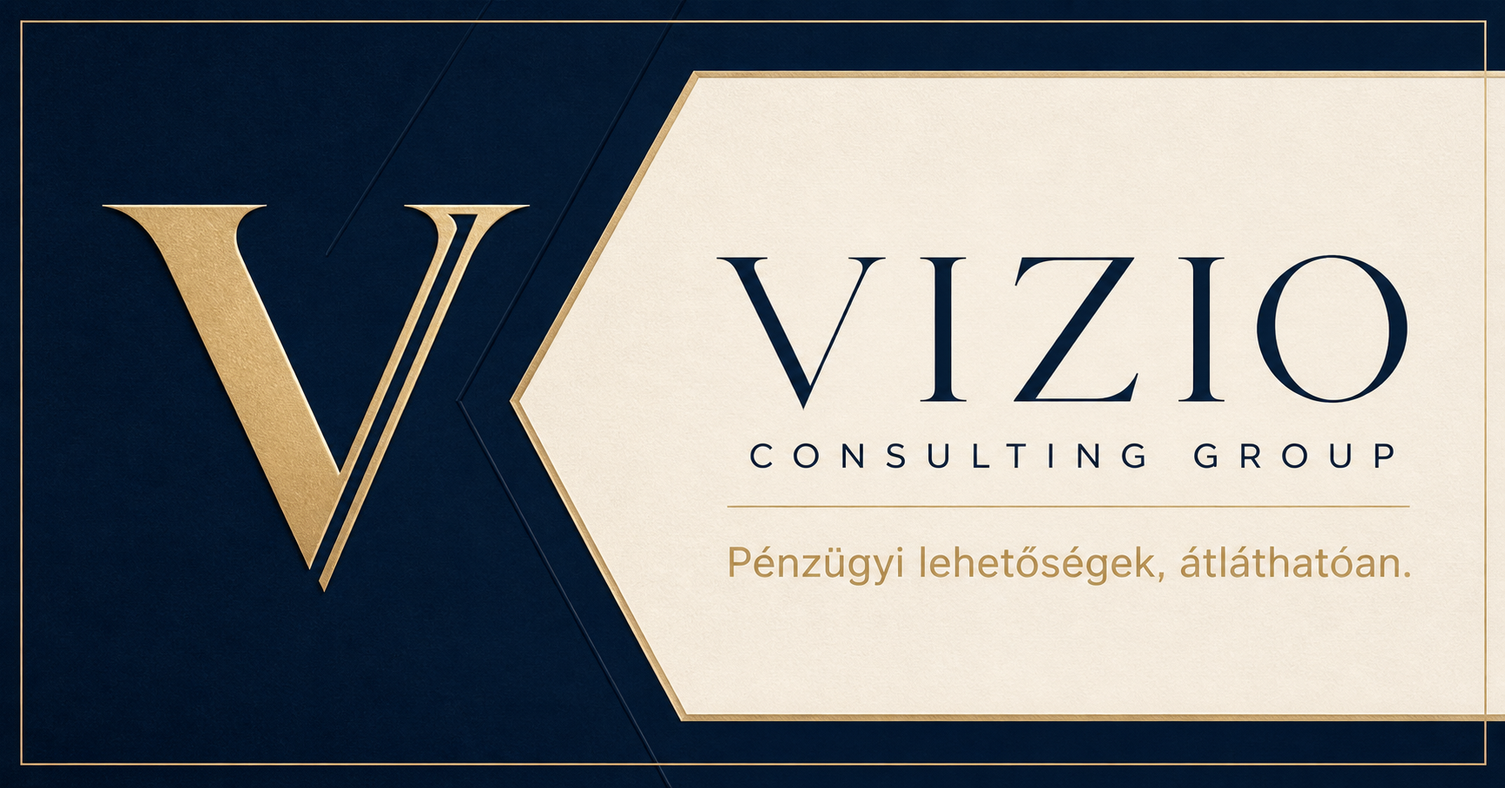
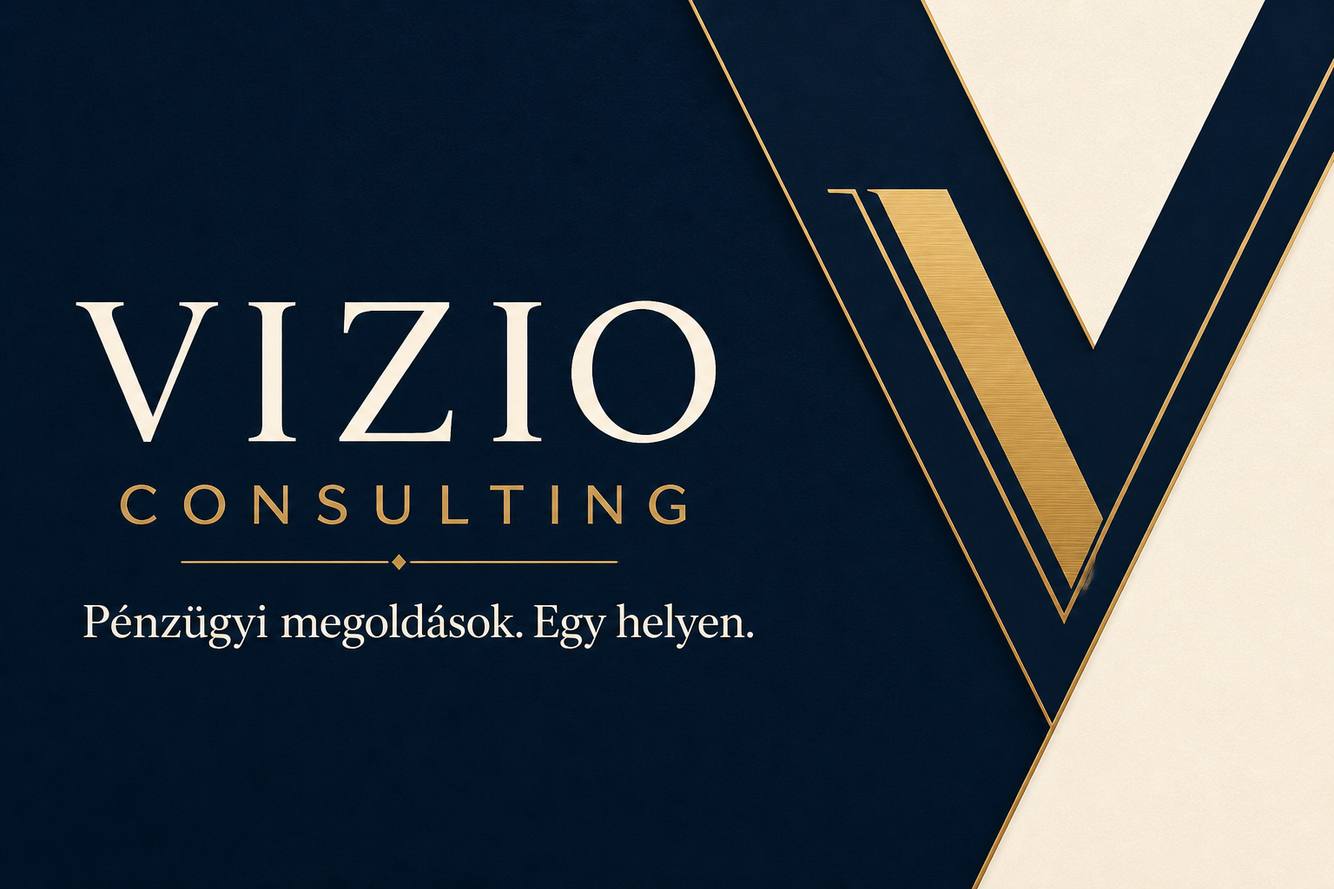
Refresh VIZIO brand and compliance content

diff --git a/src/data/landingPages.ts b/src/data/landingPages.ts
@@ -6,11 +6,11 @@ export type LandingPage = {
 };
 
 export const landingPages: LandingPage[] = [
-  { slug:'bankszamla', eyebrow:'Bankszámla', title:'Lehet, hogy többet fizetsz a bankolásért, mint szükséges.', description:'Bankszámlacsomagok áttekintése a mindennapi bankolási szokásaidhoz és élethelyzetedhez igazítva.', intro:'A megfelelő bankszámlacsomag kiválasztásával a mindennapi bankolás egyszerűbbé és kedvezőbbé válhat.', cta:'Megnézem a lehetőségeimet', secondaryCta:'Kérek visszahívást', event:'bankszamla_cta', benefits:[{title:'Alacsonyabb banki költségek',text:'A számlavezetési és kapcsolódó díjak átnézése.'},{title:'Élethelyzethez igazított csomag',text:'Más számla lehet megfelelő egy diáknak, alkalmazottnak vagy vállalkozónak.'},{title:'Modern szolgáltatások',text:'Digitális bankolás és kényelmesebb ügyintézés.'}], disclaimer:'A bankszámlacsomagok elérhetősége és díjai szolgáltatónként változhatnak; az aktuális feltételeket minden esetben külön szükséges ellenőrizni.' },
-  { slug:'megtakaritas', eyebrow:'Megtakarítás', title:'A nagyobb pénzügyi célok ritkán egyetlen nagy döntéssel kezdődnek.', description:'Rendszeres megtakarítási lehetőségek saját otthonhoz, családi célokhoz, tartalékhoz és nyugdíjhoz.', intro:'Rendszeres megtakarítással lépésről lépésre építhető fel a későbbi célokhoz szükséges pénzügyi háttér.', cta:'Megtakarítási lehetőségek', event:'megtakaritas_cta', benefits:[{title:'Tervezhető lépések',text:'A rendszeresség segíthet kiszámíthatóbban haladni a választott cél felé.'},{title:'Személyes célok',text:'Az időtáv és a megtakarítás módja a saját élethelyzetedhez igazítható.'},{title:'Pénzügyi tartalék',text:'A tudatosan épített háttér nagyobb mozgásteret adhat a jövőben.'}], categories:['Saját otthon','Gyermek jövője','Autó','Vállalkozás','Pénzügyi tartalék','Nyugdíj','Vagyonépítés','Szabad cél'], disclaimer:'A megtakarítási megoldások értéke és eredménye a választott konstrukció feltételeitől, időtávjától és kockázataitól függ.' },
-  { slug:'hitelek', eyebrow:'Hitelek', title:'Egy hitelnél nem csak a havi törlesztőrészlet számít.', description:'Lakáshitel, személyi kölcsön, hitelkiváltás és előminősítés átlátható áttekintése.', intro:'A teljes költség, a futamidő és a feltételek együtt mutatják meg, hogy egy finanszírozási lehetőség mennyire illeszkedhet a céljaidhoz.', cta:'Megnézem a hitellehetőségeket', event:'hitel_cta', benefits:[{title:'Több lehetőség',text:'Különböző finanszírozási konstrukciók áttekintése.'},{title:'Hitelkiváltás',text:'Meglévő finanszírozás optimalizálási lehetőségeinek vizsgálata.'},{title:'Előminősítés',text:'Lakáskeresés előtt is érdemes tisztában lenni a finanszírozási lehetőségekkel.'}], categories:['Lakáshitel','Személyi kölcsön','Hitelkiváltás','Támogatott konstrukciók','Hitel-előminősítés'], disclaimer:'A hitellehetőségek és feltételek minden esetben egyedi hitelbírálattól és a finanszírozó aktuális szabályaitól függnek.', related:[{label:'Okoshitel',href:'/okoshitel'},{label:'Otthonteremtés',href:'/otthonteremtes'}] },
-  { slug:'okoshitel', eyebrow:'Okoshitel', title:'Ne csak fizesd a hiteled. Legyen terved arra is, hogy hamarabb véget érjen.', description:'Személyre szabott Okoshitel számítás a futamidő és a teljes kamatteher tudatosabb tervezéséhez.', intro:'Egy tudatos pénzügyi stratégia megfelelő körülmények között jelentősen csökkentheti a hitel tényleges futamidejét és teljes kamatterhét.', cta:'Kérek Okoshitel számítást', secondaryCta:'Megnézem, nálam mit jelenthet', event:'okoshitel_cta', benefits:[{title:'Rövidebb futamidő',text:'Megfelelő konstrukció mellett akár évekkel korábban lezárható lehet a hitel.'},{title:'Alacsonyabb teljes kamatteher',text:'A rövidebb tényleges futamidő jelentős kamatmegtakarítást eredményezhet.'},{title:'Tervezett előtörlesztés',text:'A hitel hosszú távú optimalizálásában az előtörlesztés is szerepet kaphat.'},{title:'Tudatosabb pénzügyi stratégia',text:'A havi hiteltörlesztés mellett hosszabb távú pénzügyi célok is tervezhetők.'}], disclaimer:'Az eredmények minden esetben az egyedi hitelszerződés, az előtörlesztési feltételek, a választott pénzügyi megoldások és egyéb körülmények függvényei. A weboldalon szereplő információk nem jelentenek garantált megtakarítást.', related:[{label:'Hitelek',href:'/hitelek'}] },
-  { slug:'otthonteremtes', eyebrow:'Otthonteremtés', title:'Saját otthonhoz több út vezethet.', description:'Lakáshitel és aktuális otthonteremtési lehetőségek érthető áttekintése.', intro:'Segítünk átláthatóvá tenni, milyen finanszírozási és támogatási lehetőségek jöhetnek szóba az élethelyzetedben.', cta:'Megnézem a lehetőségeimet', event:'otthonteremtes_cta', benefits:[{title:'Átlátható lehetőségek',text:'A releváns finanszírozási irányok egy helyen tekinthetők át.'},{title:'Élethelyzethez igazítva',text:'Az első lakástól a családi otthonig más és más szempontok lehetnek fontosak.'},{title:'Aktuális ellenőrzés',text:'A támogatások feltételeit mindig az adott időpontban szükséges ellenőrizni.'}], categories:['Lakáshitel','Első lakás','Támogatott finanszírozás','CSOK Plusz','Babaváró','Aktuális lehetőségek'], disclaimer:'Az aktuális feltételeket minden esetben külön szükséges ellenőrizni. A jogosultság és az elérhető finanszírozás egyedi vizsgálattól függ.', related:[{label:'Hitelek',href:'/hitelek'}] },
+  { slug:'bankszamla', eyebrow:'Bankszámla', title:'Lehet, hogy többet fizetsz a bankolásért, mint szükséges.', description:'Bankszámlacsomagok áttekintése a mindennapi bankolási szokásaidhoz és élethelyzetedhez igazítva.', intro:'A megfelelő bankszámlacsomag kiválasztásával a mindennapi bankolás egyszerűbbé és kedvezőbbé válhat.', cta:'Megnézem a lehetőségeimet', secondaryCta:'Kérek visszahívást', event:'bankszamla_cta', benefits:[{title:'Költségek',text:'Bankszámlához kapcsolódó költségek áttekintése.'},{title:'Élethelyzet',text:'Különböző élethelyzetekhez eltérő számlacsomagok lehetnek megfelelőek.'},{title:'Digitális szolgáltatások',text:'Modern mobilbanki és online lehetőségek.'}], disclaimer:'A bankszámlacsomagok elérhetősége és díjai szolgáltatónként változhatnak; az aktuális feltételeket minden esetben külön szükséges ellenőrizni.' },
+  { slug:'megtakaritas', eyebrow:'Megtakarítás', title:'A nagyobb pénzügyi célok ritkán egyetlen nagy döntéssel kezdődnek.', description:'Rendszeres megtakarítási lehetőségek saját otthonhoz, családi célokhoz, tartalékhoz és nyugdíjhoz.', intro:'Rendszeres megtakarítással fokozatosan építhető fel a jövőbeli célokhoz szükséges pénzügyi háttér.', cta:'Megtakarítási lehetőségek', event:'megtakaritas_cta', benefits:[{title:'Tervezhető lépések',text:'A rendszeresség segíthet kiszámíthatóbban haladni a választott cél felé.'},{title:'Személyes célok',text:'Az időtáv és a megtakarítás módja a saját élethelyzetedhez igazítható.'},{title:'Pénzügyi tartalék',text:'A tudatosan épített háttér nagyobb mozgásteret adhat a jövőben.'}], categories:['Saját otthon','Gyermek jövője','Autó','Vállalkozás','Pénzügyi tartalék','Nyugdíj','Vagyonépítés','Szabad cél'], disclaimer:'A megtakarítási megoldások értéke és eredménye a választott konstrukció feltételeitől, időtávjától és kockázataitól függ.' },
+  { slug:'hitelek', eyebrow:'Hitelek', title:'Egy hitelnél nem csak a havi törlesztőrészlet számít.', description:'Lakáshitel, személyi kölcsön, hitelkiváltás és előminősítés átlátható áttekintése.', intro:'A teljes költség, a futamidő és a feltételek együtt mutatják meg, hogy egy finanszírozási lehetőség mennyire illeszkedhet a céljaidhoz.', cta:'Megnézem a hitellehetőségeket', event:'hitel_cta', benefits:[{title:'Több lehetőség',text:'Releváns finanszírozási konstrukciók áttekintése.'},{title:'Hitelkiváltás',text:'Meglévő finanszírozás optimalizálási lehetőségeinek vizsgálata.'},{title:'Előminősítés',text:'Lakáskeresés előtt is érdemes tisztában lenni a finanszírozási lehetőségekkel.'}], categories:['Lakáshitel','Személyi kölcsön','Hitelkiváltás','Támogatott konstrukciók','Hitel-előminősítés'], disclaimer:'A hitellehetőségek és feltételek minden esetben egyedi hitelbírálattól és a finanszírozó aktuális szabályaitól függnek.', related:[{label:'Okoshitel',href:'/okoshitel'},{label:'Otthonteremtés',href:'/otthonteremtes'}] },
+  { slug:'okoshitel', eyebrow:'Okoshitel', title:'Ne csak fizesd a hiteled. Legyen terved arra is, hogy hamarabb véget érjen.', description:'Személyre szabott Okoshitel számítás a futamidő és a teljes kamatteher tudatosabb tervezéséhez.', intro:'Egy tudatosan felépített pénzügyi stratégia megfelelő körülmények között csökkentheti a hitel tényleges futamidejét és teljes kamatterhét.', cta:'Kérek Okoshitel számítást', secondaryCta:'Megnézem, nálam mit jelenthet', event:'okoshitel_cta', benefits:[{title:'Rövidebb futamidő',text:'Megfelelő feltételek mellett a hitel a tervezettnél korábban lezárható lehet.'},{title:'Alacsonyabb teljes kamatteher',text:'A rövidebb tényleges futamidő kamatmegtakarítást eredményezhet.'},{title:'Előtörlesztési lehetőség',text:'A hitel hosszú távú optimalizálásában az előtörlesztés is szerepet kaphat.'},{title:'Tudatos pénzügyi stratégia',text:'A hitel kezelése hosszabb távú pénzügyi tervezésbe illeszthető.'}], disclaimer:'A konkrét eredmény minden esetben az egyedi hitelszerződés, az előtörlesztési feltételek, a választott pénzügyi megoldások és egyéb körülmények függvénye. A weboldalon szereplő információk nem jelentenek garantált megtakarítást.', related:[{label:'Hitelek',href:'/hitelek'}] },
+  { slug:'otthonteremtes', eyebrow:'Otthonteremtés', title:'Saját otthonhoz több út vezethet.', description:'Lakáshitel és aktuális otthonteremtési lehetőségek érthető áttekintése.', intro:'Segítünk átláthatóvá tenni, milyen finanszírozási és támogatási lehetőségek jöhetnek szóba az élethelyzetedben.', cta:'Megnézem a lehetőségeimet', event:'otthonteremtes_cta', benefits:[{title:'Átlátható lehetőségek',text:'A releváns finanszírozási irányok egy helyen tekinthetők át.'},{title:'Élethelyzethez igazítva',text:'Az első lakástól a családi otthonig más és más szempontok lehetnek fontosak.'},{title:'Aktuális ellenőrzés',text:'A támogatások feltételeit mindig az adott időpontban szükséges ellenőrizni.'}], categories:['Lakáshitel','Első lakás','Támogatott finanszírozás','CSOK Plusz','Babaváró','Aktuális lehetőségek'], disclaimer:'Az aktuális feltételeket és jogosultsági szabályokat minden esetben külön szükséges ellenőrizni.', related:[{label:'Hitelek',href:'/hitelek'}] },
   { slug:'biztositas', eyebrow:'Biztosítás', title:'A jó biztosítás akkor számít igazán, amikor szükség van rá.', description:'Biztosítási lehetőségek otthonra, autóra, utazáshoz, egészséghez és váratlan élethelyzetekre.', intro:'A megfelelő védelem kiválasztása abban segíthet, hogy egy váratlan helyzet pénzügyileg is kezelhetőbb legyen.', cta:'Biztosítási lehetőségek', event:'biztositas_cta', benefits:[{title:'Ami fontos, védhető',text:'Otthon, autó, utazás vagy személyes biztonság – eltérő célokhoz eltérő védelem illeszkedhet.'},{title:'Átlátható fedezetek',text:'Nem csak a díj, hanem a szolgáltatás tartalma és kizárásai is fontosak.'},{title:'Élethelyzethez igazítva',text:'A biztosítási igények az élethelyzet változásával együtt módosulhatnak.'}], categories:['Lakásbiztosítás','KGFB','Casco','Utasbiztosítás','Életbiztosítás','Balesetbiztosítás','Egészségbiztosítás'], disclaimer:'A biztosítási fedezetet, kizárásokat, limiteket és díjakat mindig az adott biztosító aktuális feltételei határozzák meg.' },
   { slug:'nyugdij', eyebrow:'Nyugdíj és hosszú táv', title:'A hosszú távú pénzügyi biztonságot érdemes időben elkezdeni építeni.', description:'Nyugdíjcélú és hosszú távú megtakarítási lehetőségek a pénzügyi tartalék tudatos felépítéséhez.', intro:'A hosszabb időtáv és a rendszeres megtakarítás együtt adhat alapot egy későbbi, stabilabb pénzügyi háttérhez.', cta:'Megnézem a hosszú távú lehetőségeket', event:'nyugdij_cta', benefits:[{title:'Rendszeres megtakarítás',text:'A kisebb, következetes lépések hosszabb idő alatt jelentős alapot építhetnek.'},{title:'Hosszú időtáv',text:'A korábbi kezdés nagyobb tervezési mozgásteret teremthet.'},{title:'Vagyonépítés',text:'A nyugdíjcél mellett általános pénzügyi tartalék is építhető.'},{title:'Nyugdíjcélú tartalék',text:'A későbbi élethelyzet pénzügyi biztonsága tudatosan előkészíthető.'}], disclaimer:'A hosszú távú megtakarítások eredménye a választott konstrukció feltételeitől, költségeitől, időtávjától és kockázataitól függ.' },
 ];

diff --git a/src/styles/global.css b/src/styles/global.css
@@ -21,3 +21,7 @@
 @media(max-width:760px){.landing-hero{min-height:100svh;grid-template-columns:1fr;padding:125px 22px 58px;gap:45px}.landing-hero h1{font-size:clamp(42px,12vw,58px)}.landing-symbol{width:76vw;justify-self:center}.landing-benefit-grid{grid-template-columns:1fr}.landing-benefit-grid article{min-height:210px}.landing-benefit-grid h3{margin-top:38px}.category-grid{grid-template-columns:1fr}.landing-contact{grid-template-columns:1fr;gap:40px}.optional-fields{grid-template-columns:1fr;gap:0}.landing-mobile-cta{display:grid;place-items:center;position:fixed;z-index:46;left:0;right:0;bottom:0;min-height:calc(58px + env(safe-area-inset-bottom));padding-bottom:env(safe-area-inset-bottom);background:linear-gradient(135deg,var(--light-gold),var(--gold));color:var(--dark);font-size:12px;font-weight:600;box-shadow:0 -8px 25px rgba(0,0,0,.16)}.cookie-panel{bottom:calc(70px + env(safe-area-inset-bottom))}.cookie-settings{flex-direction:column}.cookie-settings label{width:100%}}
 .form-honeypot{position:absolute!important;left:-9999px!important;width:1px!important;height:1px!important;overflow:hidden!important}
 .contact-form input:not(:user-invalid):not(:user-valid),.contact-form select:not(:user-invalid):not(:user-valid),.contact-form textarea:not(:user-invalid):not(:user-valid){border-color:#cbbca5}
+.skip-link{position:fixed;z-index:120;top:12px;left:12px;padding:12px 18px;background:var(--cream);color:var(--navy);border:2px solid var(--gold);transform:translateY(-160%);transition:transform .2s}.skip-link:focus{transform:none}a:focus-visible,button:focus-visible,input:focus-visible,select:focus-visible,textarea:focus-visible{outline:3px solid var(--light-gold);outline-offset:4px}section[id],main[id]{scroll-margin-top:90px}.service-grid{grid-template-columns:repeat(3,minmax(0,1fr))}.service-card-featured{background:linear-gradient(145deg,var(--dark),var(--navy));color:white;border-color:rgba(210,176,106,.42)}.service-card-featured h3,.service-card-featured>a{color:white}.service-card-featured>p,.service-card-featured li{color:#bdc7cf}.service-card-featured ul{border-color:rgba(210,176,106,.24)}.team-card-placeholder{opacity:.64}.team-card-placeholder .portrait-placeholder{background:linear-gradient(145deg,#27394a,var(--navy))}.team-legal{font-size:10px!important;color:#7b848b!important;border-top:1px solid #ded3c4;padding-top:12px;line-height:1.6}.team-links{display:flex;gap:14px;margin-top:12px}.team-links a{font-size:11px;color:var(--navy);border-bottom:1px solid var(--gold);padding-bottom:4px}.footer-disclosures{display:grid;grid-template-columns:1fr 1fr;gap:40px;margin-top:55px;padding:28px 0;border-top:1px solid rgba(210,176,106,.17);border-bottom:1px solid rgba(210,176,106,.17)}.footer-disclosures p{margin:0;color:#8f9da8;font-size:10px;line-height:1.8}.footer-disclosures strong{color:#d8dfe5}.footer-disclosures a{color:var(--light-gold);text-decoration:underline}.footer-disclosures img{max-width:150px;height:auto}.legal-data{margin:20px 0}.legal-data div{display:grid;grid-template-columns:minmax(190px,.45fr) 1fr;gap:25px;padding:13px 0;border-top:1px solid #ded3c4}.legal-data dt{color:var(--gold);font-size:10px;text-transform:uppercase;letter-spacing:.12em}.legal-data dd{margin:0;color:#4f5b64;line-height:1.6}.legal-page a{text-decoration:underline;text-decoration-color:rgba(184,138,59,.55);text-underline-offset:3px}
+@media(max-width:1050px){.service-grid{grid-template-columns:repeat(2,minmax(0,1fr))}}
+@media(max-width:720px){.service-grid{grid-template-columns:1fr}.footer-disclosures{grid-template-columns:1fr;gap:18px}.legal-data div{grid-template-columns:1fr;gap:5px}.legal-page{padding-left:22px;padding-right:22px}}
+@media(prefers-reduced-motion:reduce){html{scroll-behavior:auto}.reveal,.reveal.visible{opacity:1;transform:none;transition:none}.button,.service-card,.category-grid a,.mobile-menu,.menu-toggle span{transition:none!important}.button:hover,.service-card:hover,.category-grid a:hover{transform:none}}

diff --git a/src/data/services.ts b/src/data/services.ts
@@ -1,5 +1,9 @@
 export const services = [
-  { number:'01', slug:'bankszamla', event:'bankszamla_cta', title:'Bankszámla', text:'Bankszámlák és számlacsomagok összehasonlítása a mindennapi bankolási szokásokhoz igazítva.', points:['Havi költségek optimalizálása','Kedvezőbb számlacsomagok','Modern banki szolgáltatások','Egyszerűbb bankolás'], cta:'Megnézem a lehetőségeket' },
+  { number:'01', slug:'bankszamla', event:'bankszamla_cta', title:'Bankszámla', text:'Bankszámlák és számlacsomagok összehasonlítása a mindennapi bankolási szokásokhoz igazítva.', points:['Kapcsolódó költségek áttekintése','Élethelyzethez illeszkedő csomag','Modern digitális szolgáltatások'], cta:'Bankszámla lehetőségek' },
   { number:'02', slug:'megtakaritas', event:'megtakaritas_cta', title:'Megtakarítások', text:'Rövid, közép- és hosszú távú pénzügyi célokhoz kialakítható megtakarítási lehetőségek.', points:['Saját otthon és gyermek jövője','Autó vagy vállalkozás','Vagyonépítés és nyugdíj','Szabadon alakítható célok'], cta:'Megtakarítási lehetőségek' },
   { number:'03', slug:'hitelek', event:'hitel_cta', title:'Hitelek', text:'Finanszírozási lehetőségek lakásvásárláshoz, nagyobb célokhoz vagy meglévő hitelek optimalizálásához.', points:['Lakáshitel és személyi kölcsön','Támogatott hitelek','Hitelkiváltás','Hitel-előminősítés'], cta:'Hitel lehetőségek' },
+  { number:'04', slug:'okoshitel', event:'okoshitel_cta', title:'Okoshitel', text:'Tudatosabb stratégia meglévő vagy új hitel hosszú távú kezelésére.', points:['Futamidő áttekintése','Teljes kamatteher vizsgálata','Előtörlesztési lehetőségek'], cta:'Okoshitel', featured:true },
+  { number:'05', slug:'otthonteremtes', event:'otthonteremtes_cta', title:'Otthonteremtés', text:'Lakáshitel, támogatott lehetőségek és otthonteremtési megoldások egy helyen.', points:['Lakáshitel','Első lakás','Aktuális támogatott lehetőségek'], cta:'Otthonteremtés' },
+  { number:'06', slug:'biztositas', event:'biztositas_cta', title:'Biztosítás', text:'Pénzügyi védelem váratlan élethelyzetekre, otthonra és gépjárműre.', points:['Otthon és gépjármű','Utazás','Élet- és baleseti védelem'], cta:'Biztosítások' },
+  { number:'07', slug:'nyugdij', event:'nyugdij_cta', title:'Nyugdíj', text:'Hosszú távú megtakarítás és pénzügyi tartalék a későbbi évekre.', points:['Rendszeres megtakarítás','Hosszú időtáv','Nyugdíjcélú tartalék'], cta:'Nyugdíjtervezés' },
 ];

diff --git a/src/data/team.ts b/src/data/team.ts
@@ -1,10 +1,24 @@
-export interface TeamMember { name: string; role: string; bio: string; image: string; linkedin?: string; email?: string; }
+export interface TeamMember {
+  name?: string;
+  role?: string;
+  bio?: string;
+  image?: string;
+  email?: string;
+  phone?: string;
+  linkedin?: string;
+  mnbRegistration?: string;
+  businessName?: string;
+  placeholder?: boolean;
+}
 export const team: TeamMember[] = [
   {
     name: 'Lőrincz Gergely',
     role: 'Alapító',
     bio: 'Gergő azért hozta létre a Viziot, mert hisz abban, hogy a pénzügyi döntések mögött mindig egy emberi történet, egy család és egy szebb jövő iránti vágy áll. Célja, hogy minden ügyfél valódi figyelmet, őszinte válaszokat és biztos kapaszkodót kapjon a saját útjához.',
     image: 'Lőrincz Gergely portréja',
+    email: 'office@vizioconsulting.hu',
+    mnbRegistration: '125122300062',
+    businessName: 'Lőrincz Gergely e.v.',
   },
   {
     name: 'Szölke Richárd',
@@ -12,4 +26,6 @@ export const team: TeamMember[] = [
     bio: 'Ricsi friss energiával és nyitott, emberközpontú szemlélettel érkezett a Vizio csapatába. Fontos számára, hogy az ügyfelek ne csupán lehetőségeket lássanak maguk előtt, hanem azt is érezzék: van mellettük valaki, aki figyel rájuk és szívvel-lélekkel támogatja őket.',
     image: 'Szölke Richárd portréja',
   },
+  { placeholder: true },
+  { placeholder: true },
 ];

diff --git a/src/data/site.ts b/src/data/site.ts
@@ -1,16 +1,33 @@
 export const siteConfig = {
-  companyName: 'Vizio Consulting Group',
+  companyName: 'VIZIO Consulting',
+  brandName: 'VIZIO Consulting',
+  operatorName: 'Lőrincz Gergely e.v.',
+  evRegistrationNumber: '61574599',
+  taxNumber: '91627906-1-27',
   domain: 'https://vizioconsulting.hu',
   email: 'office@vizioconsulting.hu',
   phone: '06 20 287 4336',
+  phoneHref: '+36202874336',
   address: '',
   bookingUrl: '',
   googleBusinessUrl: '',
   facebook: '',
   instagram: '',
   linkedin: '',
+  tiktok: '',
   gaId: '',
   metaPixelId: '',
   googleSiteVerification: '',
   contactEndpoint: '',
+  mnbRegistrationNumber: '125122300062',
+  mnbRegistrationDate: '2025.12.23.',
+  mnbStatus: 'Aktív',
+  intermediaryType: 'Függő közvetítő',
+  intermediaryOrganization: 'OVB Vermögensberatung Általános Biztosítási és Pénzügyi Szolgáltató Kft.',
+  relatedMnbRegistrationNumber: '225122300052',
+  mnbUrl: 'https://www.mnb.hu/',
+  mnbIntermediaryRegisterUrl: 'https://kozvetitokereso.mnb.hu/',
+  ovbComplaintUrl: 'https://www.ovb.hu/szerviz/panaszkezeles.html',
+  showOvbLogo: false,
+  ovbLogoUrl: '',
 };

diff --git a/docs/social-content-policy.md b/docs/social-content-policy.md
@@ -1,0 +1,30 @@
+# VIZIO social content policy
+
+Ez a belső segédlet a rendelkezésre bocsátott Social Media Policy arányait foglalja össze. Nem helyettesíti az OVB Styleguide-ot vagy Social Media Playbookot.
+
+## Javasolt tartalmi arányok
+
+- Minimum 50% értékadó tartalom: érthető pénzügyi témák, élethelyzetek, döntési szempontok és általános edukáció.
+- Maximum 20% folyamatmagyarázó tartalom: nyilvánosan megosztható, ügyfél számára releváns lépések, belső módszertan nélkül.
+- Maximum 20% közvetlen értékesítési tartalom: szolgáltatásbemutatás és természetes kapcsolatfelvételi CTA.
+- Maximum 10% személyes tartalom: emberi, szakmailag releváns bemutatkozás.
+
+## Kerülendő személyes tartalom
+
+- túlzó luxus vagy demonstratív drága utazás;
+- incentive esemény kommunikációja;
+- alkoholfogyasztás;
+- meztelenség vagy szexuális tartalom;
+- félrevezető életmód- vagy jövedelemígéret.
+
+## Compliance alapelvek
+
+- A VIZIO maradjon domináns brand, az OVB kapcsolat legyen felismerhető és tényszerű.
+- Ne jelenjen meg garantált eredmény, hozam, megtakarítás vagy hitelígéret.
+- Ne használjuk a „független pénzügyi tanácsadó” megnevezést; a nyilvántartott státusz: függő közvetítő.
+- Ne publikáljunk belső értékesítési, tanácsadási, jutalék-, KPI-, képzési vagy toborzási anyagot.
+- Minden külső kép, zene, videó és szöveg felhasználási jogát ellenőrizni kell.
+
+## Jóváhagyás
+
+Az OVB-brandet, OVB-logót vagy közös arculati elemet használó tartalom csak a hivatalos Styleguide és jóváhagyási folyamat ismeretében készülhet.

diff --git a/docs/social-profile-checklist.md b/docs/social-profile-checklist.md
@@ -1,0 +1,22 @@
+# Social profile checklist
+
+- [ ] Valódi név vagy egyértelműen azonosítható kapcsolattartó
+- [ ] Következetes VIZIO branding
+- [ ] Az OVB-kapcsolat felismerhető, tényszerű megjelölése
+- [ ] Weboldal linkje
+- [ ] Impresszum linkje
+- [ ] Adatkezelési tájékoztató linkje
+- [ ] Netikett linkje
+- [ ] Kapcsolati adatok
+- [ ] Copyright- és felhasználásijog-ellenőrzés
+- [ ] Teljes profil kitöltése
+
+## Hivatalos Styleguide-ig TODO
+
+- [ ] Pontos profilnév-formátum
+- [ ] Engedélyezett profilkép
+- [ ] OVB-logó variáns és használat
+- [ ] Cover image szabály
+- [ ] Social layout és template
+
+Ezeket a pontokat nem szabad saját feltételezéssel lezárni.

diff --git a/docs/OVB-STYLEGUIDE-TODO.md b/docs/OVB-STYLEGUIDE-TODO.md
@@ -1,0 +1,18 @@
+# OVB Styleguide – nyitott feladatok
+
+- [ ] OVB Styleguide beszerzése
+- [ ] Social Media Playbook beszerzése
+- [ ] Engedélyezett logóvariáns
+- [ ] Logó safe area
+- [ ] Profilnév szabály
+- [ ] Profilkép szabály
+- [ ] Cover image szabály
+- [ ] Saját brand használatának pontos kerete
+- [ ] OVB-megjelölés pontos formája
+- [ ] Színpaletta
+- [ ] Typography
+- [ ] Social template
+- [ ] Recruiting template
+- [ ] Jóváhagyási folyamat
+
+Egyik pont sem tekinthető késznek a megfelelő hivatalos forrás nélkül.

diff --git a/README.md b/README.md
@@ -1,4 +1,4 @@
-# Vizio Consulting Group weboldal
+# VIZIO Consulting weboldal
 
 Prémium, reszponzív Astro corporate weboldal. A kapcsolati alapadatok a `src/data/site.ts`, a csapat adatai a `src/data/team.ts` fájlban szerkeszthetők.
 
